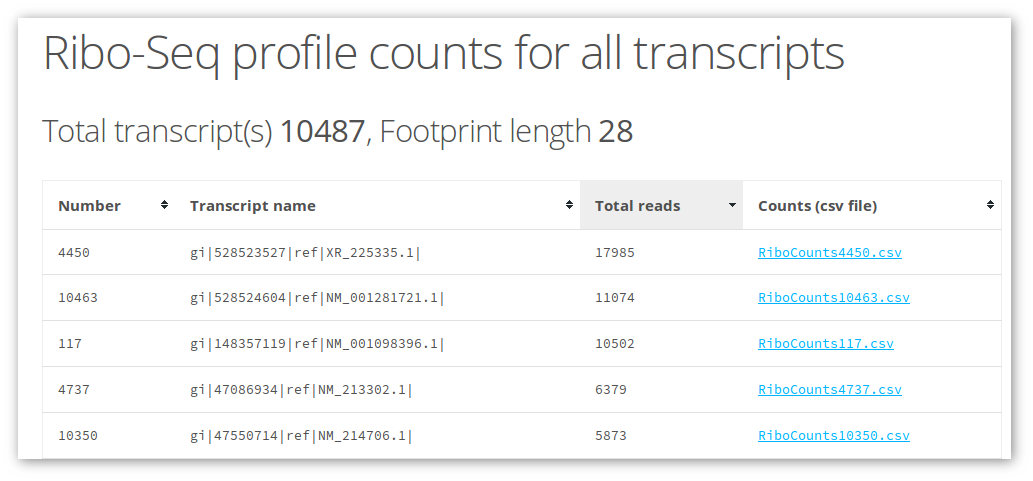
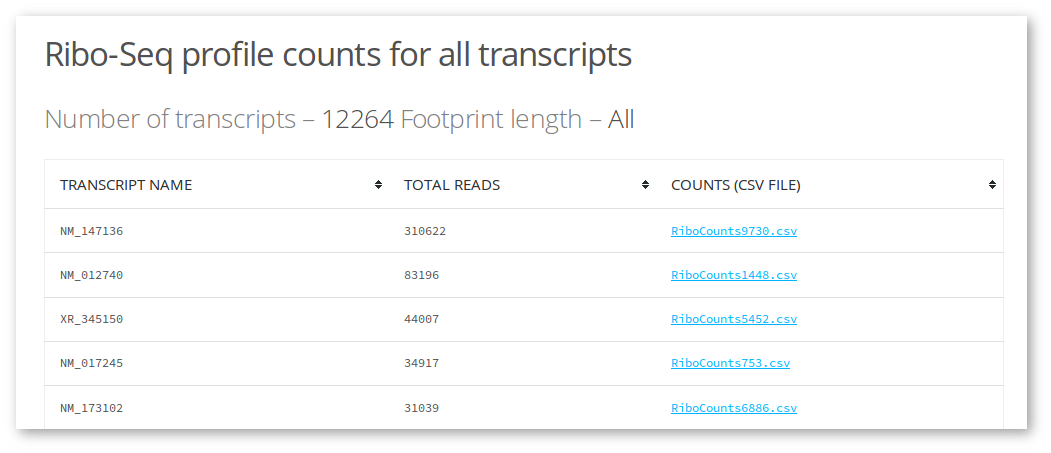
Release 0.2.0

diff --git a/setup.py b/setup.py
@@ -14,7 +14,7 @@ with open('README.rst') as readme_file:
 with open('HISTORY.rst') as history_file:
     history = history_file.read().replace('.. :changelog:', '')
 
-requirements = ['matplotlib', 'pysam', 'mock==1.0.1']
+requirements = ['matplotlib', 'pysam']
 
 test_requirements = [
     # TODO: put package test requirements here
@@ -22,7 +22,7 @@ test_requirements = [
 
 setup(
     name='riboplot',
-    version='0.1.1',
+    version='0.2.0',
     description="Plot read counts of RiboSeq data from BAM format alignment files",
     long_description=readme + '\n\n' + history,
     author="Vimalkumar Velayudhan",
@@ -39,8 +39,9 @@ setup(
     zip_safe=False,
     keywords='riboplot',
     classifiers=[
-        'Development Status :: 2 - Pre-Alpha',
-        'Intended Audience :: Developers',
+        'Development Status :: 5 - Production/Stable',
+        'Intended Audience :: Science/Research',
+        'Topic :: Scientific/Engineering :: Bio-Informatics',
         'License :: OSI Approved :: GNU General Public License (GPL)',
         'Natural Language :: English',
         "Programming Language :: Python :: 2",

diff --git a/docs/conf.py b/docs/conf.py
@@ -15,17 +15,6 @@
 
 import sys
 import os
-# To get the docs to build on readthedocs.org
-from mock import Mock as MagicMock
-
-class Mock(MagicMock):
-    @classmethod
-    def __getattr__(cls, name):
-        return Mock()
-
-MOCK_MODULES = ['matplotlib']
-sys.modules.update((mod_name, Mock()) for mod_name in MOCK_MODULES)
-
 
 # If extensions (or modules to document with autodoc) are in another
 # directory, add these directories to sys.path here. If the directory is

diff --git a/riboplot/riboplot.py b/riboplot/riboplot.py
@@ -120,7 +120,7 @@ def get_color_palette(scheme):
     """
     color_schemes = {
         'default': {
-            'frames': ['tomato', 'limegreen', 'deepskyblue'], 'background': '#f5f5f5',
+            'frames': ['tomato', 'limegreen', 'deepskyblue'], 'background': '#fafafa',
             'color': '#616161', 'ticks': '#757575', 'start': '#ffffff', 'stop': '#919191',
             'rna': '#e0e0e0', 'axis': '#e0e0e0', 'grey': '#bdbdbd'
         },

diff --git a/riboplot/__init__.py b/riboplot/__init__.py
@@ -2,4 +2,4 @@
 
 __author__ = 'Vimalkumar Velayudhan'
 __email__ = 'vimalkumarvelayudhan@gmail.com'
-__version__ = '0.1.1'
+__version__ = '0.2.0'

diff --git a/docs/usage.rst b/docs/usage.rst
@@ -32,7 +32,7 @@ and the Ribo-Seq/RNA-Seq alignment (BAM).
 ++++++++++++++++++++++++++++++++++++++++++++
 If you have RNA-Seq data (sorted BAM), you can select the option to plot RNA coverage.
 
-5. Read lengths to consider [Optional] (Integer - 0 or greater)
+5. Read lengths to consider [optional] (Integer - 0 or greater)
 +++++++++++++++++++++++++++++++++++++++++++++++++++++++++++++++
 If this option is provided, only Ribo-Seq data of the given length is considered.
 
@@ -53,6 +53,7 @@ The open reading frame architecture appears below the plot with start (ATG) and 
 The color codes are start (white) and stop (dark gray).
 
 .. image:: ../images/riboplot.png
+   :width: 80 %
 
 2. RiboSeq read counts (CSV)
 ++++++++++++++++++++++++++++
@@ -63,43 +64,37 @@ Command line
 ............
 ``riboplot`` can also be run on the command line. The usage is ::
 
-    usage: riboplot [-h] -b RIBO_FILE -f TRANSCRIPTOME_FASTA -t TEXT
-                    [-n RNA_FILE] [-l INTEGER] [-s INTEGER] [-m HTML_FILE]
-                    [-o OUTPUT_PATH] [-d]
+    riboplot [-h] -b RIBO_FILE -f TRANSCRIPTOME_FASTA -t TEXT
+             [-n RNA_FILE] [-l INTEGER] [-s INTEGER] 
+             [-c {default,colorbrewer,rgb,greyorfs}] [-m HTML_FILE]
+             [-o OUTPUT_PATH] [-d]
 
-    Plot and output read counts for a single transcript
+Plot and output read counts for a single transcript
 
-    optional arguments:
-    -h, --help
-        show this help message and exit
-
-    -n RNA_FILE, --rna_file RNA_FILE
-        RNA-Seq alignment file (BAM)
-
-    -l INTEGER, --read_length INTEGER
-        Read length to consider (default: None)
-
-    -s INTEGER, --read_offset INTEGER
-        Read offset (default: 0)
-
-    -m HTML_FILE, --html_file HTML_FILE
-        Output file for results (HTML)
-
-    -o OUTPUT_PATH, --output_path OUTPUT_PATH
-        Files are saved in this directory
-
-    -d, --debug
-        Flag. Produce debug output
-
-    required arguments:
+**required arguments**:
     -b RIBO_FILE, --ribo_file RIBO_FILE
         Ribo-Seq alignment file in BAM format
-
     -f TRANSCRIPTOME_FASTA, --transcriptome_fasta TRANSCRIPTOME_FASTA
         FASTA format file of the transcriptome
-
     -t TEXT, --transcript_name TEXT
         Transcript name
+
+**optional arguments**:
+    -h, --help  show this help message and exit
+    -n RNA_FILE, --rna_file RNA_FILE
+        RNA-Seq alignment file (BAM)
+    -l INTEGER, --read_length INTEGER
+        Read length to consider (default: None)
+    -s INTEGER, --read_offset INTEGER
+        Read offset (default: 0)
+    -c COLOR_SCHEME, --color_scheme COLOR_SCHEME                
+         Color scheme to use (default: default). Other options are colorbrewer, rgb, greyorfs
+    -m HTML_FILE, --html_file HTML_FILE
+        Output file for results (HTML)
+    -o OUTPUT_PATH, --output_path OUTPUT_PATH
+        Files are saved in this directory
+    -d, --debug
+        Flag. Produce debug output
 
 RiboCount
 ---------
@@ -127,6 +122,12 @@ If this option is provided, only Ribo-Seq data of the given length is considered
 +++++++++++++++++++++++++++++++++++++++++++++
 If this option is provided, this offset is added to the read alignment positions.
 
+5. Restrict read counts
++++++++++++++++++++++++
+Choose whether to output read counts for the entire transcript or restrict read counts to the 5' or 3' region of the longest ORF.
+Default start (ATG) and stop codons ('TAG', 'TGA', 'TAA') are used to identify the longest ORF in 3 frames.
+
+
 Output
 ......
 Read counts for all transcripts in the alignment (ZIP)
@@ -135,7 +136,8 @@ The output file ``ribocount_output.zip`` should first be uncompressed. This will
 a folder called ``ribocount_output``. Open ``index.html`` in a web browser to view the results of ribocount.
 
 Total reads for each transcript will be displayed in a table along with the name of the transcript and a link
-to the CSV file containing the read counts in 3 frames for each position in the transcript.
+to the CSV file containing the read counts in 3 frames for each position in the transcript. If 5' or 3' counts
+are requested, an extra column will be present with reads in these regions.
 
 .. image:: ../images/ribocount.png
 
@@ -143,37 +145,31 @@ Command line
 ............
 ``ribocount`` can also be run on the command line. The usage is ::
 
-    usage: ribocount [-h] -b RIBO_FILE -f TRANSCRIPTOME_FASTA [-l INTEGER]
-    [-s INTEGER] [-m HTML_FILE] [-o OUTPUT_PATH] [-d]
+    ribocount [-h] -b RIBO_FILE -f TRANSCRIPTOME_FASTA [-l INTEGER]
+                    [-s INTEGER] [-v | -r] [-m HTML_FILE] [-o OUTPUT_PATH]
+                    [-d]
 
     Output read counts for all transcripts
 
-    optional arguments:
+**required arguments**:
+    -b RIBO_FILE, --ribo_file RIBO_FILE
+        Ribo-Seq alignment file in BAM format
+    -f TRANSCRIPTOME_FASTA, --transcriptome_fasta TRANSCRIPTOME_FASTA
+        FASTA format file of the transcriptome
 
-        -h, --help            show this help message and exit
-
-        -l INTEGER, --read_length INTEGER
-            Read length to consider (default: None)
-
-        -s INTEGER, --read_offset INTEGER
-            Read offset (default: 0)
-
-        -m HTML_FILE, --html_file HTML_FILE
-
-            Output file for results (HTML)
-
-        -o OUTPUT_PATH, --output_path OUTPUT_PATH
-            Files are saved in this directory
-
-        -d, --debug           Flag. Produce debug output
-
-    required arguments:
-
-        -b RIBO_FILE, --ribo_file RIBO_FILE
-            Ribo-Seq alignment file in BAM format
-
-        -f TRANSCRIPTOME_FASTA, --transcriptome_fasta TRANSCRIPTOME_FASTA
-            FASTA format file of the transcriptome
+**optional arguments**:
+    -h, --help            show this help message and exit
+    -l INTEGER, --read_length INTEGER
+        Read length to consider (default: None)
+    -s INTEGER, --read_offset INTEGER
+        Read offset (default: 0)
+    -v, --count_five      Flag. Output reads in 5' region
+    -r, --count_three     Flag. Output reads in 3' region
+    -m HTML_FILE, --html_file HTML_FILE
+        Output file for results (HTML)
+    -o OUTPUT_PATH, --output_path OUTPUT_PATH
+        Files are saved in this directory
+    -d, --debug           Flag. Produce debug output
 
 .. links
 .. _RiboGalaxy: http://ribogalaxy.ucc.ie

diff --git a/HISTORY.rst b/HISTORY.rst
@@ -2,6 +2,39 @@
 
 History
 =======
+0.2.0 (2015-10-15)
+------------------
+**riboplot**
+
+* Support for color schemes - options: default, colorbrewer, rgb, greyorfs.
+* Plot changes - colored, light background for ORF architecture, legend moved down.
+* Image DPI change 300 |srarr| 600.
+* Sample scripts to plot multiple transcripts and multiple color schemes.
+
+**ribocount**
+
+* Ability to output read counts in 5'(``-v``) and 3'(``-r``) leader region.
+       
+Bugfixes
+
+1. Report error if a bam index could not be generated (ex. bam sorted using 
+   reference names instead of chromosome coordinates).
+2. No start/stop values when transcript sequences are in lower case.
+
+Tests
+
+* Split into three different files.
+* Updated test configuration.
+
+Minor
+
+* XML wrapper changes - remove 'leader', add help text and output label change [ribocount].
+* Remove unused pysam import [riboplot].
+* Replace doc includes with sym links (breaks Galaxy toolshed otherwise).
+* Updated CSS/Table styles (removed number column from table).
+* y limit is now 1.25x [riboplot].
+* Removed line width on bars [riboplot].
+
 0.1.1 (2015-09-08)
 ------------------
 * Remove invalid Python 3 version (whl).
@@ -12,3 +45,6 @@ History
 0.1.0 (2015-08-24)
 ------------------
 * First release on PyPI.
+
+.. substitutions  
+.. |srarr|    unicode:: U+02192 .. RIGHTWARDS ARROW

diff --git a/README.rst b/README.rst
@@ -22,5 +22,5 @@ There are two programs in the package:
 
 Free software: GPL license.
 
-Documentation: https://riboplot.readthedocs.org.
+Documentation: http://pythonhosted.org/riboplot.
 
